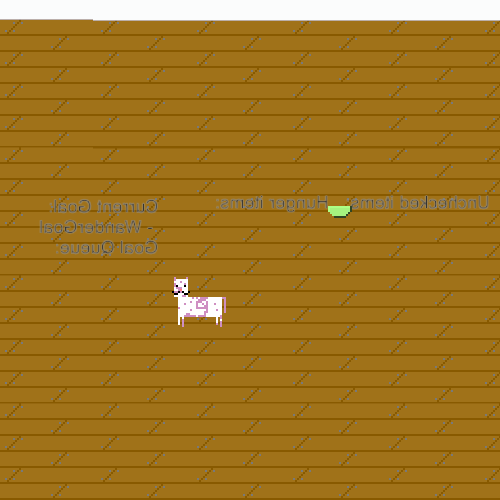
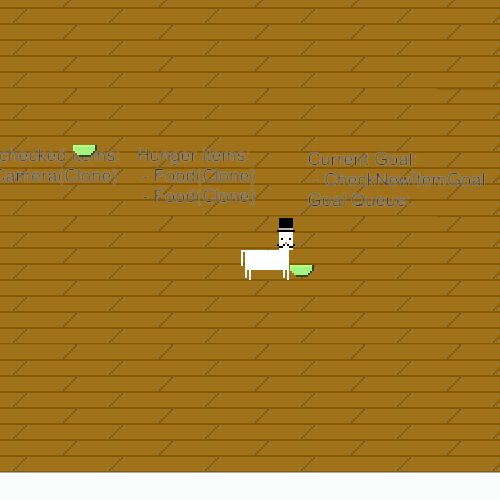
cats even more safe now sir, meowww

diff --git a/Assets/SavingAndLoading/GameSaveLoad.cs b/Assets/SavingAndLoading/GameSaveLoad.cs
@@ -1,5 +1,6 @@
 using UnityEngine;
 using System.Collections;
+using System.Collections.Generic;
 using System.IO;
 
 public class SaveInfo {
@@ -16,11 +17,31 @@ public class GameSaveLoad : MonoBehaviour {
 	
 	private bool savePresent = false;
 	public bool SavePresent { get { return savePresent; } }
+
+	private List<ISaveable> saveables;
 	
 	// Use this for initialization
 	void Awake() {
 		instance = this;
 		savePresent = File.Exists(Globals.SaveFolder + "saveInfo");
+		Debug.Log("Looking for save from " + Globals.SaveFolder);
+		Debug.Log("Save found: " + savePresent);
+
+		saveables = new List<ISaveable>();
+	}
+
+	public void AddSaveable(ISaveable s) {
+		saveables.Add(s);
+	}
+	public void RemoveSaveabe(ISaveable s) {
+		saveables.Remove(s);
+	}
+
+	// Informs all saveables to "start from scratch"
+	public void StartNewGame() {
+		foreach(ISaveable s in saveables) {
+			s.StartNewGame();
+		}
 	}
 	
 	public void SaveGame() {
@@ -29,15 +50,21 @@ public class GameSaveLoad : MonoBehaviour {
 			json.AddField("time", System.DateTime.Now.ToString("dd MMM yyyy HH:mm"));
 			file.WriteLine(json.Print());
 		}
-		
-		CatManager.Instance.SaveGame();
-		HouseItemManager.Instance.SaveGame();
+
+		foreach(ISaveable s in saveables) {
+			s.SaveGame();
+		}
+		//CatManager.Instance.SaveGame();
+		//HouseItemManager.Instance.SaveGame();
 	}
 	
 	public void LoadGame() {
 		if(savePresent) {
-			CatManager.Instance.LoadGame();
-			HouseItemManager.Instance.LoadGame();
+			foreach(ISaveable s in saveables) {
+				s.LoadGame();
+			}
+			//CatManager.Instance.LoadGame();
+			//HouseItemManager.Instance.LoadGame();
 		}
 	}
 	

diff --git a/Assets/Cats/CatManager.cs b/Assets/Cats/CatManager.cs
@@ -2,7 +2,7 @@
 using System.Collections;
 using System.Collections.Generic;
 
-public class CatManager : MonoBehaviour {
+public class CatManager : MonoBehaviour, ISaveable {
 	private static CatManager instance;
 	public static CatManager Instance { get { return instance; } }
 	
@@ -14,6 +14,8 @@ public class CatManager : MonoBehaviour {
 		instance = this;
 		
 		cats = new List<GameObject>();
+
+		GameSaveLoad.Instance.AddSaveable(this);
 	}
 	
 	// The WorldUpdate message is sent by the WorldUpdate class when the game is not paused
@@ -33,6 +35,11 @@ public class CatManager : MonoBehaviour {
 		cats.Remove(c);
 		c.BroadcastMessage("OnRemovedFromWorld", SendMessageOptions.DontRequireReceiver);
 		GameEventManager.Instance.QueueEvent(GameEvent.CAT_REMOVED, c);
+	}
+
+	public void StartNewGame() {
+		GameObject c = CatFactory.Instance.CreateFromFile("startingCat");
+		AddCat(c);
 	}
 	
 	public void SaveGame() {

diff --git a/Assets/HouseItems/HouseItemManager.cs b/Assets/HouseItems/HouseItemManager.cs
@@ -2,7 +2,7 @@
 using System.Collections;
 using System.Collections.Generic;
 
-public class HouseItemManager : MonoBehaviour {
+public class HouseItemManager : MonoBehaviour, ISaveable {
 	private static HouseItemManager instance;
 	public static HouseItemManager Instance { get { return instance; } }
 	
@@ -13,6 +13,8 @@ public class HouseItemManager : MonoBehaviour {
 		instance = this;
 		
 		items = new List<GameObject>();
+
+		GameSaveLoad.Instance.AddSaveable(this);
 	}
 	
 	// The WorldUpdate message is sent by the WorldUpdate class when the game is not paused
@@ -34,6 +36,10 @@ public class HouseItemManager : MonoBehaviour {
 		items.Remove(i);
 		i.BroadcastMessage("OnRemovedFromWorld", SendMessageOptions.DontRequireReceiver);
 		GameEventManager.Instance.QueueEvent(GameEvent.HOUSE_ITEM_REMOVED, i);
+	}
+
+	public void StartNewGame() {
+
 	}
 	
 	public void SaveGame() {

diff --git a/Assets/World/WorldInit.cs b/Assets/World/WorldInit.cs
@@ -8,8 +8,8 @@ public class WorldInit : MonoBehaviour {
 	
 	// Use this for initialization
 	void Start () {
-		HouseItem food = FindObjectOfType<HouseItem>();
-		HouseItemManager.Instance.AddItem(food.gameObject);
+		//HouseItem food = FindObjectOfType<HouseItem>();
+		//HouseItemManager.Instance.AddItem(food.gameObject);
 		
 		if(File.Exists(Globals.TempDataFolder + "init")) {
 			string[] lines = File.ReadAllLines(Globals.TempDataFolder + "init");
@@ -29,10 +29,8 @@ public class WorldInit : MonoBehaviour {
 	
 	private void InitNew() {
 		Debug.Log("Initing new game");
-		Player.Instance.Wallet.AddMoney(100);
-		
-		GameObject c = CatFactory.Instance.CreateFromFile("startingCat");
-		CatManager.Instance.AddCat(c);
+
+		GameSaveLoad.Instance.StartNewGame();
 	}
 	private void InitLoad() {
 		Debug.Log("Initing load game");

diff --git a/Assets/Cats/Accessories/CatAccessoryManager.cs b/Assets/Cats/Accessories/CatAccessoryManager.cs
@@ -1,0 +1,36 @@
+using UnityEngine;
+using System.Collections;
+using System.Collections.Generic;
+
+public class CatAccessoryManager : MonoBehaviour, ISaveable {
+	private CatAccessoryManager instance;
+	public CatAccessoryManager Instance { get { return instance; } }
+
+	[SerializeField]
+	private Dictionary<string, Sprite> allHats;
+
+	private List<string> availableHats;
+
+	// Use this for initialization
+	void Awake() {
+		instance = this;
+
+		//allHats = new Dictionary<string, Sprite>();
+	}
+
+	public Sprite GetHat(string hat) {
+		return allHats[hat];
+	}
+
+	public void StartNewGame() {
+
+	}
+
+	public void SaveGame() {
+
+	}
+
+	public void LoadGame() {
+
+	}
+}

diff --git a/Assets/Finances/Wallet.cs b/Assets/Finances/Wallet.cs
@@ -1,10 +1,14 @@
 using UnityEngine;
 using System.Collections;
 
-public class Wallet : MonoBehaviour {
+public class Wallet : MonoBehaviour, ISaveable {
 	private int money;
 	public int Money {
 		get { return money; }
+	}
+
+	void Start() {
+		GameSaveLoad.Instance.AddSaveable(this);
 	}
 
 	public void AddMoney(int amount) {
@@ -17,5 +21,17 @@ public class Wallet : MonoBehaviour {
 		else {
 			money = 0;
 		}
+	}
+
+	public void StartNewGame() {
+		AddMoney(100);
+	}
+
+	public void LoadGame() {
+
+	}
+
+	public void SaveGame() {
+
 	}
 }

diff --git a/Assets/GUIs/ShopScreen.cs b/Assets/GUIs/ShopScreen.cs
@@ -75,8 +75,8 @@ public class ShopScreen : MonoBehaviour {
 	}
 	private void ItemPlacementDone() {
 		transform.localScale = new Vector3(1f, 1f, 1f);
-		ItemPlacementMode.Instance.confirmListeners += ItemPlaced;
-		ItemPlacementMode.Instance.cancelListeners += CancelItemPlacement;
+		ItemPlacementMode.Instance.confirmListeners -= ItemPlaced;
+		ItemPlacementMode.Instance.cancelListeners -= CancelItemPlacement;
 	}
 
 	private void SetSelectedItem(ShopItem item) {

diff --git a/Assets/HouseItems/HouseItemFactory.cs b/Assets/HouseItems/HouseItemFactory.cs
@@ -37,7 +37,7 @@ public class HouseItemFactory : MonoBehaviour {
 		string posString = tr.GetField("position").str;
 		posString = posString.Replace("(", "");
 		posString = posString.Replace(")", "");
-		Debug.Log(posString);
+
 		string[] coords = posString.Split(',');
 		Vector3 pos = new Vector3(float.Parse(coords[0]), float.Parse(coords[1]), float.Parse(coords[2]));
 		item.transform.position = pos;

diff --git a/Assets/GUIs/ItemPlacementMode.cs b/Assets/GUIs/ItemPlacementMode.cs
@@ -39,6 +39,7 @@ public class ItemPlacementMode : MonoBehaviour {
 	}
 
 	public void Begin(GameObject item) {
+		Debug.Log("Starting to place item: " + item.name);
 		if(item != null) {
 			running = true;
 			transform.localScale = new Vector3(1f, 1f, 1f);

diff --git a/Assets/Cats/Accessories/CatAccessories.cs b/Assets/Cats/Accessories/CatAccessories.cs
@@ -1,0 +1,15 @@
+using UnityEngine;
+using System.Collections;
+
+public class CatAccessories : MonoBehaviour {
+	private GameObject hatObject;
+
+	// Use this for initialization
+	void Start () {
+	
+	}
+
+	public void SetHat(string h) {
+
+	}
+}

diff --git a/Assets/SavingAndLoading/ISaveable.cs b/Assets/SavingAndLoading/ISaveable.cs
@@ -1,0 +1,9 @@
+using UnityEngine;
+using System.Collections;
+
+// An interface for objects that know how to save/load themselves into/from JSON
+public interface ISaveable {
+	void LoadGame();
+	void SaveGame();
+	void StartNewGame();
+}

diff --git a/Assets/GameEvents/GameEventManager.cs b/Assets/GameEvents/GameEventManager.cs
@@ -18,6 +18,8 @@ public class GameEventManager : MonoBehaviour {
 
 	// Use this for initialization
 	void Awake() {
+		Debug.Log("Creating GameEventManager");
+
 		// Set the static instance
 		instance = this;
 
